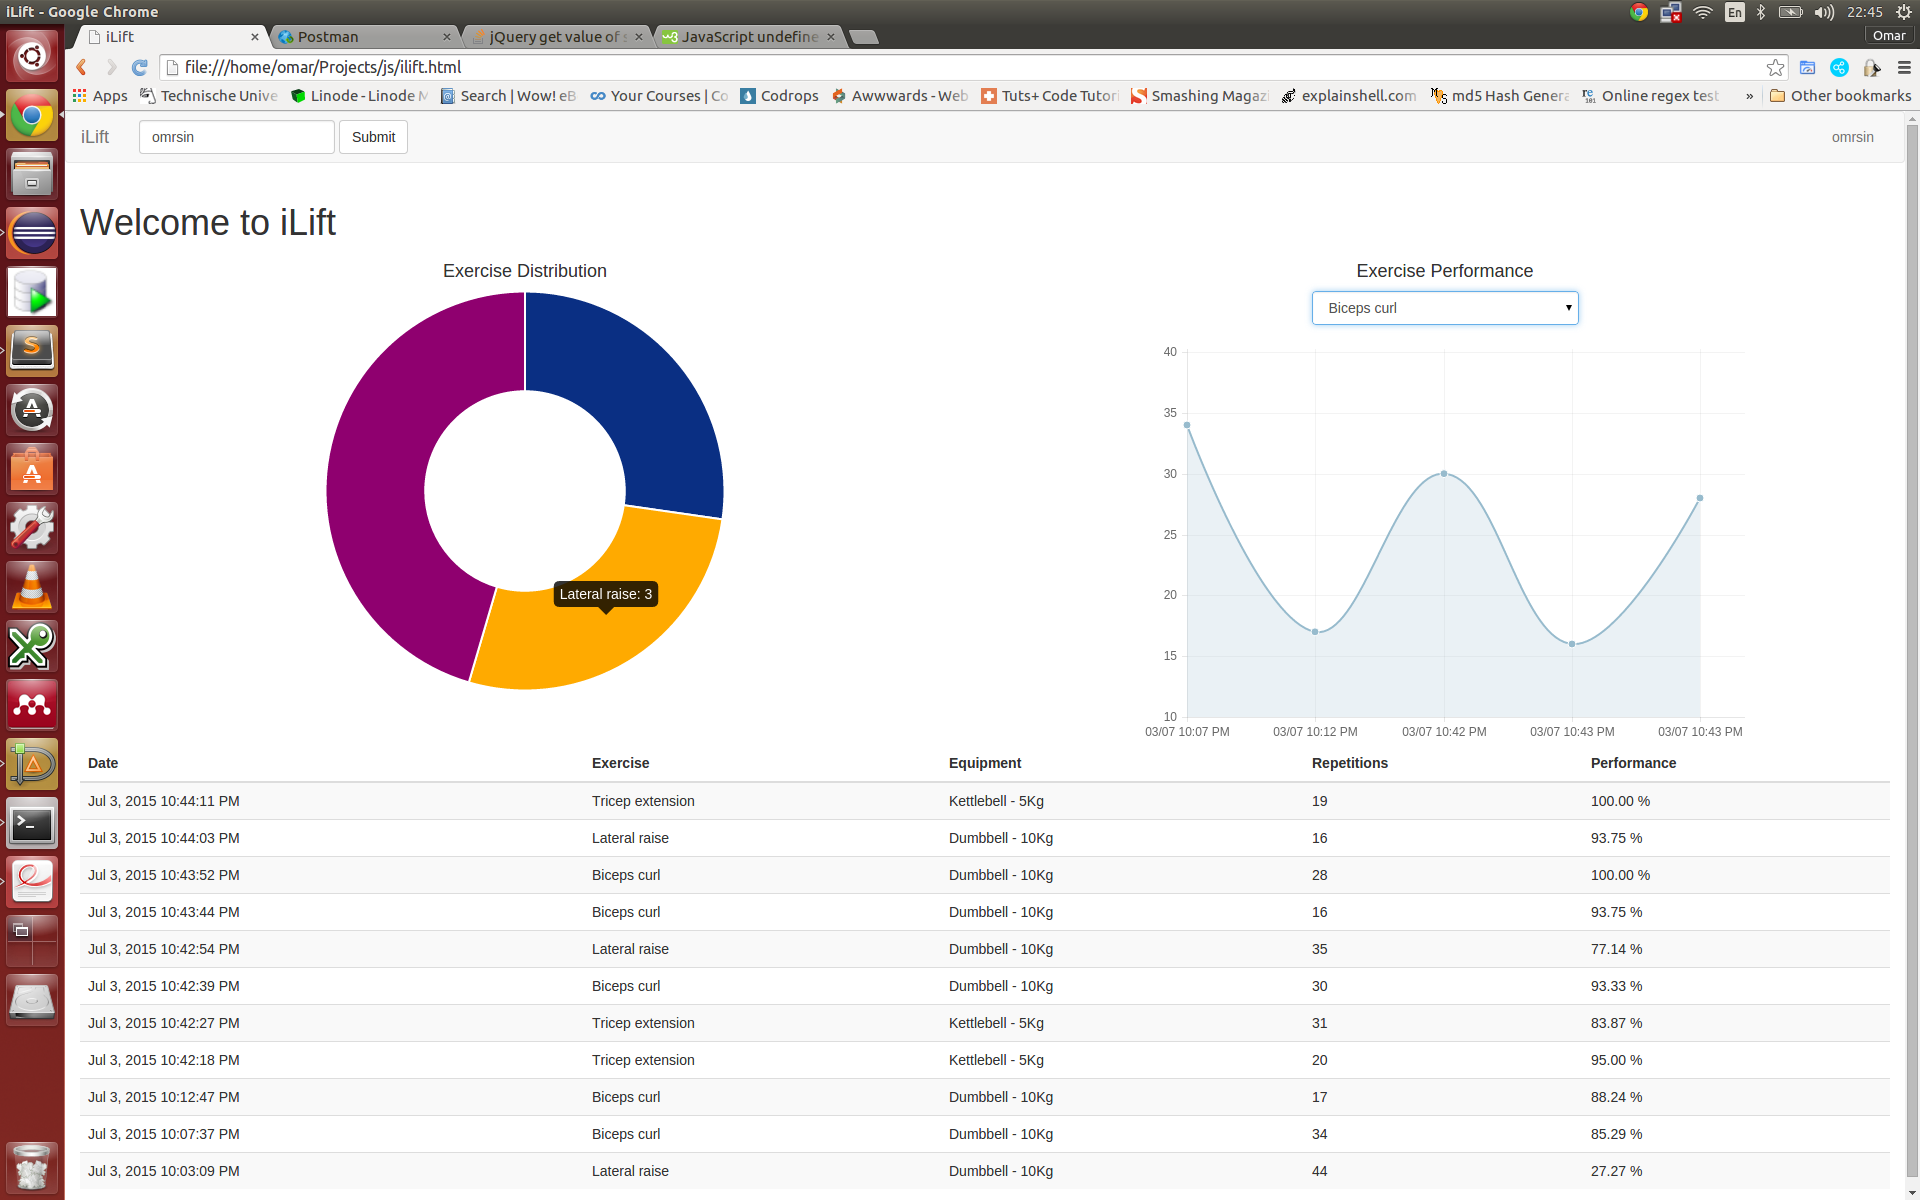
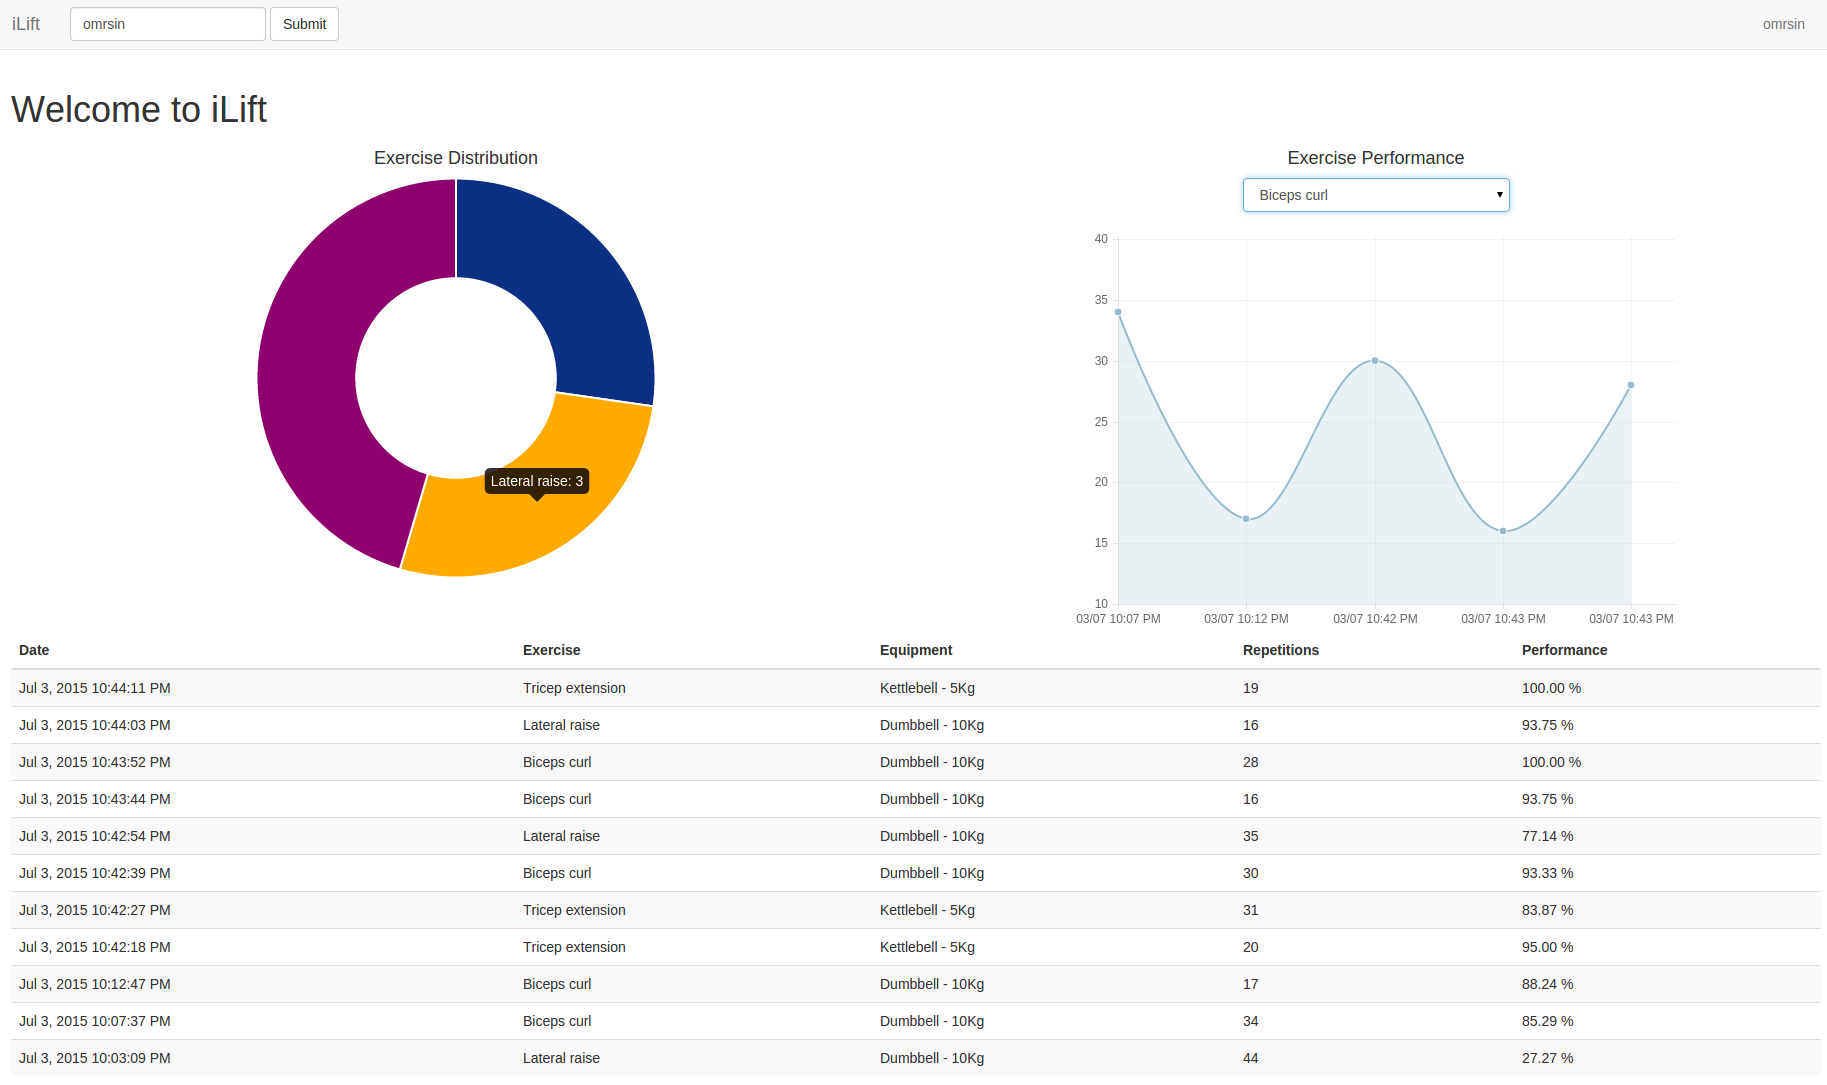
adds the caption for the web client interface figure

diff --git a/Documentation/main.tex b/Documentation/main.tex
@@ -71,9 +71,10 @@ Finally, the user can continue and perform more exercises and log out from the s
 
 \begin{figure*}[!t]
 \centering
-\includegraphics[width=\textwidth]{img/sth}
-\caption{Screenshot from the web interface. %TODO explain
+\includegraphics[width=\textwidth]{img/web_client_ilift}
+\caption{Screenshot from the interface of the web client. On the upper part we present two charts: a doughnut chart representing the proportions of sessions for each exercise and a line chart representing the progress in the last five session of a selected exercise. On the lower part we present a table with the detailed information of each session.
 }
+\vspace{1EM}
 \label{fig_web_screenshot}
 \end{figure*}
 
